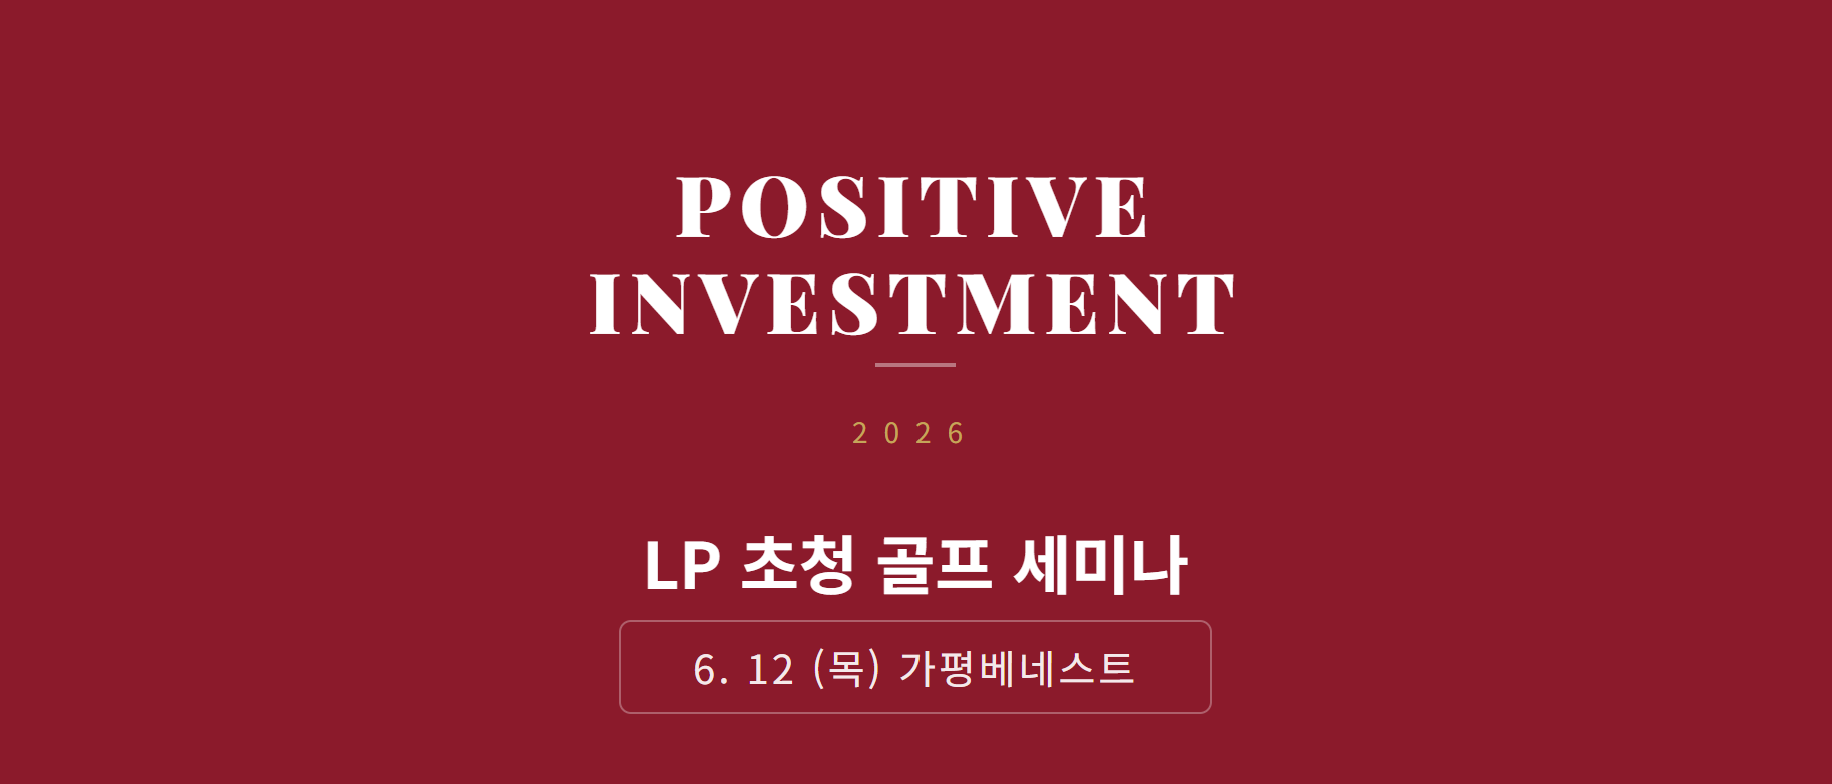
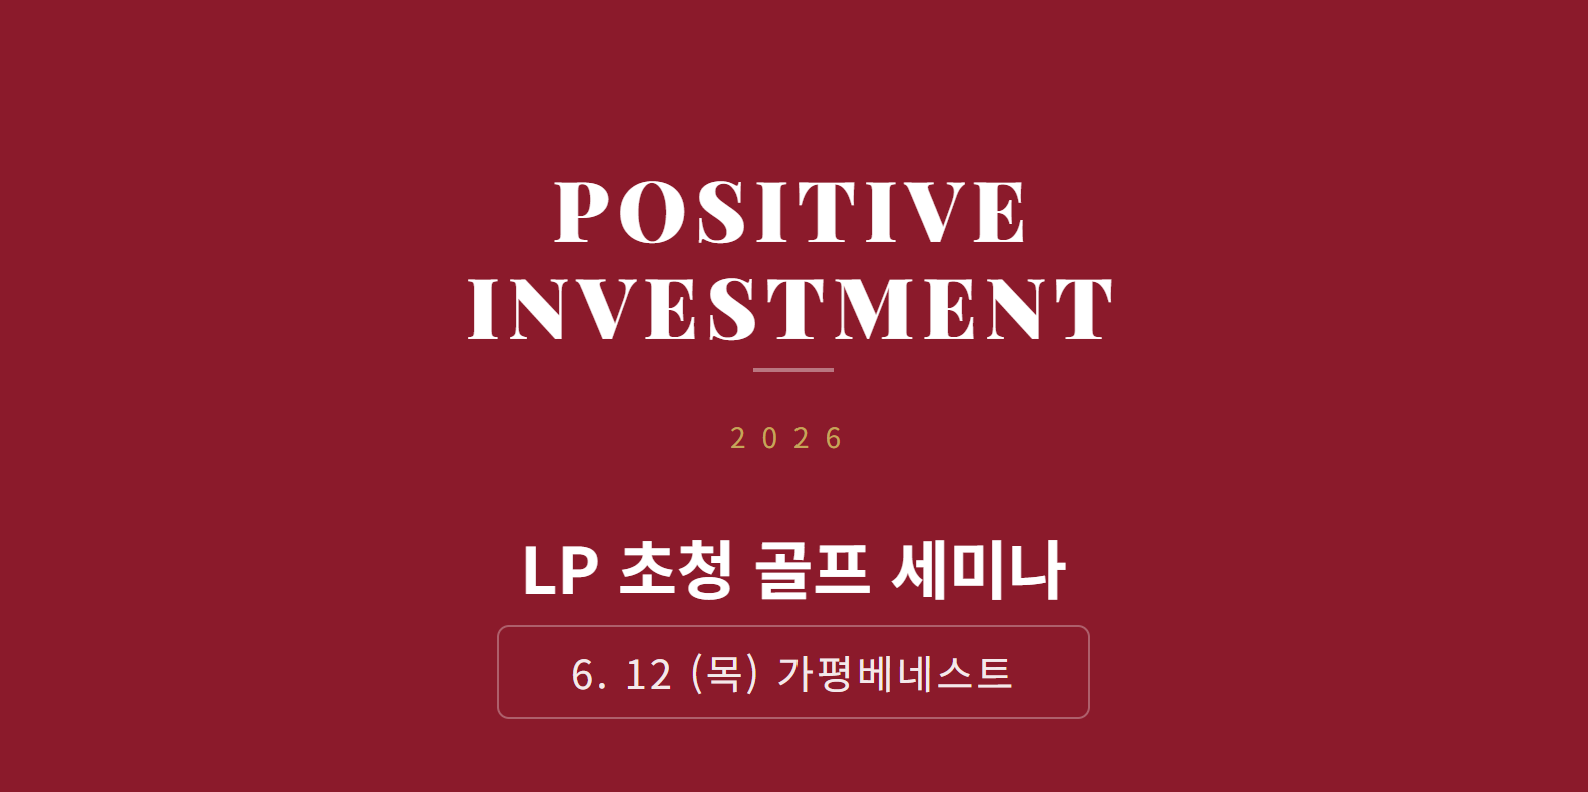
가평베네스트 섬네일 중앙정렬 수정 및 이미지 교체

diff --git a/gapyeong/index.html b/gapyeong/index.html
@@ -7,7 +7,7 @@
   <meta property="og:title" content="포지티브인베스트먼트">
   <meta property="og:description" content="2026년 포지티브인베스트먼트 LP 고객초청 세미나에 초대합니다">
   <meta property="og:type" content="website">
-  <meta property="og:image" content="https://leehooyoung92-sketch.github.io/golf/images/%EA%B0%80%ED%8F%89%EB%B2%A0%EB%84%A4%EC%8A%A4%ED%8A%B8%EC%84%AC%EB%84%A4%EC%9D%BC.png?v=20260331b">
+  <meta property="og:image" content="https://leehooyoung92-sketch.github.io/golf/images/%EA%B0%80%ED%8F%89%EB%B2%A0%EB%84%A4%EC%8A%A4%ED%8A%B8%EC%84%AC%EB%84%A4%EC%9D%BC.png?v=20260331c">
   <meta property="og:url" content="https://leehooyoung92-sketch.github.io/golf/gapyeong/">
   <title>포지티브인베스트먼트 LP 초청 골프 세미나 | 가평베네스트</title>
   <link rel="preconnect" href="https://fonts.googleapis.com">

diff --git a/tools/thumbnail.html b/tools/thumbnail.html
@@ -10,6 +10,7 @@
     h2 { margin: 20px 0 10px; font-size: 14px; color: #666; }
     .card {
       width: 800px; height: 400px;
+      box-sizing: border-box;
       background: #8B1A2B;
       display: flex; flex-direction: column;
       align-items: center; justify-content: center;
